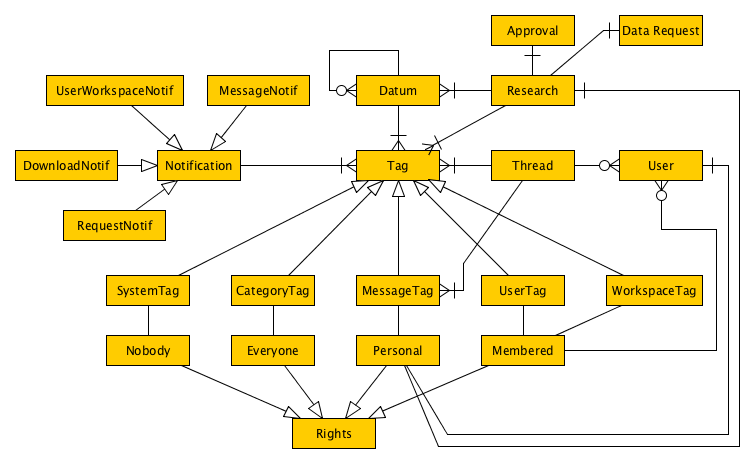
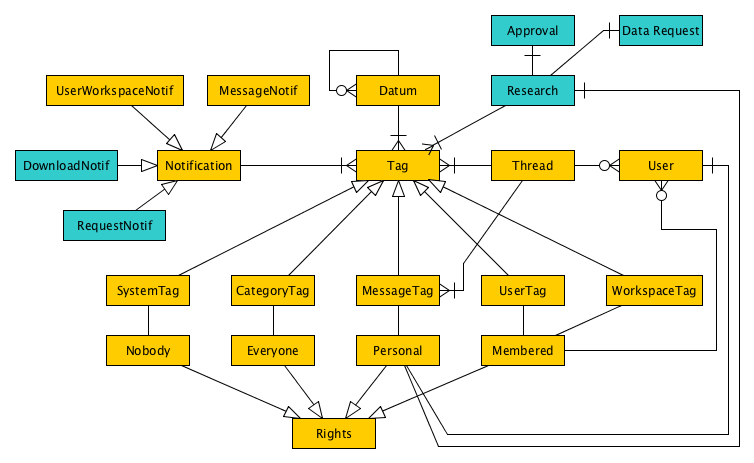
system design section 100% done, implementation section 100% done

diff --git a/partials/design-implementation/implementation-rosemary.tex b/partials/design-implementation/implementation-rosemary.tex
@@ -1,18 +1,70 @@
 \subsection{Rosemary}
-\paragraph{Testing the data model's flexibility}
-How was the Rosemary data model changed to fit to our functional needs.
-Show figure with differences.
 
-\begin{figure}[!htb]
+\paragraph{Testing the data model's flexibility}
+\begin{figure}[!b]
 	\centering
 	\includegraphics[width=1.0\linewidth]{images/datamodel-adapted}
 	\caption{
 		Rosemary data model as implemented.
 		Describes workspace, tagging, datum, notification, and research models.
 		The original data model can be found in figure \ref{fig:reuse-rosemary-dm}.
+		Differences between the implemented model and the original model are shown in blue.
 	}
 	\label{fig:implementation-rosemary-dm}
 \end{figure}
 
+As mentioned earlier in section \ref{reuse-rosemary} alterations had to be made to the original Rosemary data model.
+These can be divided into additions in the form of new objects and changes to already existing objects.
+
+The only existing object needing changes is the {\tt WorkspaceTag}.
+This tag is used to tell the system what subsets of data exist, where each subset is made up of one or more {\tt Datum}s (\ie{} each {\tt Datum} tagged with a certain workspace tag belongs in the subset).
+Each tag also has an owner and members, all the users in this set has access to the data in the workspace.
+
+The original Rosemary implementation does not differentiate between different \emph{types} of workspaces. 
+The \ivfsystem{} has a \emph{master} workspace containing \emph{all} the raw data from every clinic, it has clinic workspaces containing data specific to a clinic, and it has request workspaces containing data for a specific request.
+This is reflected by adding a workspace type field to the {\tt WorkspaceTag} object.
+
+Requests contain a limited set of data items (headers), the \emph{master} dataset contains all the available headers.
+To restrict the headers a researcher can view in his or her request workspace a visibility field was added to the {\tt WorkspaceTag}.
+This field contains a set of the accessible headers for a workspace, the system can then filters this data from the \emph{master} dataset before outputting the result to the user.
+
+Next to these two (minor) changes five new data objects were added to the data model.
+These are: {\tt Research}, {\tt Approval}, {\tt Data Request}, {\tt DownloadNotif}, {\tt RequestNotif}.
+The two notification objects are used to determine how information is displayed in the front-end they both inherit from the {\tt Notification} object.
+This means that the methods used to extract information are standardised and these two notification objects can directly be used in the system without further need for customisation.
+
+The other three objects are related to each other, each {\tt Research} contains an {\tt Approval} object and an {\tt Data Request} object.
+These related objects are used to capture data regarding the request progress.
+Where the {\tt Data Request} contains the requested headers and the {\tt Datum}s these relate to in the \emph{master} dataset.
+And the {\tt Approval} keeps record of the committee users that need to give permissions and what votes were already cast.
+Lastly, the {\tt Research} object is used to capture information used to base a voting decision on, \eg{} research question, study description.
+
 \paragraph{Back-end and front-end}
-Explain how the front and back-end were changed to meet each of the functions.
+In Rosemary the back-end provides an RESTful API which the front-end can communicate with, meaning that the back-end is completely disjointed from the front-end.
+Communication is done with JSON\footnote{http://json.org/}, which leaves options open for a complete rebuild of the front-end without having to touch the back-end.
+For the \ivfsystem{} the existing back and front-end were both reused.
+
+Starting with the back-end, some structural changes were made.
+Firstly, classes and methods that were used for submission and application handling were removed.
+Also the data import function was removed, however this might find a place in a later prototype of the \ivfsystem{} when incremental updating of data is used.
+Then, each of the objects from the data model are implemented in the back-end through a class.
+For each of the new objects a class was created with the necessary methods to store and retrieve data in them.
+
+The most notable changes to existing code were in the data handling and security classes.
+Rosemary already supports basic user handling where a user creates an account and access to the system is restricted based on this.
+However the system needed user roles for a fine grated control of access to the system.
+To execute this control the system requires these roles to be read and acted upon.
+This is reflected in the security class which now supplies this information.
+
+Data handling had to be changed in the sense that most of the time {\tt Datum}s would be retrieved with only a small selection of the available headers.
+All the read methods in the data class have been adapted to restrict access.
+This makes for easy access of data from the front-end, it just provides the back-end with a request for a workspace with a certain user.
+The back-end then filters data based on this and returns the restricted dataset.
+
+Design of front-end was done on an educated guess base.
+There was no time available for a user-centred design approach where prototypes are iterated until the best design solution is achieved.
+The existing layout was mostly left in place, pages related to surplus functions (submission and application handling) were removed.
+For each of the new functions pages were created where necessary.
+
+To the architecture of the front-end no changes were made.
+The implementation of back-end communication and security was sufficient for a successful implementation of a prototype.

diff --git a/partials/design-implementation/implementation-processes.tex b/partials/design-implementation/implementation-processes.tex
@@ -1,12 +1,51 @@
 \section{Implementation}
 
 \subsection{Processes}
-\paragraph{Division of management tasks}
-Describe user, data, request, and publication-management, which were implemented and which were left out for now.
-What functions for each of the tasks was implemented.
 
-\paragraph{User roles}
-What user roles were implemented and which (parts) of the management tasks are they allowed to perform.
+\begin{figure}[!b]
+	\centering
+	\includegraphics[width=1.0\linewidth]{images/functions-implemented}
+	\caption{
+		Mapping of functions after implementation considerations according to function groups, actors, and research workflow.
+		Greyed-out functions are implemented through placeholders.
+	}
+	\label{fig:functions-implemented}
+\end{figure}
+
+\paragraph{Division of management tasks}
+Due to time restrictions in this study not all functions that were discovered in section \ref{brainstorm} could be implemented.
+A selection was made based on the programmers opinion what would be most profitable for a prototype system.
+Which selection was made can be seen in figure \ref{fig:functions-implemented}.
+Decisions were made based on the fact that the demo has to appeal to a wide variety of users, most importantly research and clinic management.
+
+To start with the most basic system data management functions are implemented.
+These include search and filtering for the researcher user and data manager user, and the download function.
+Data audit is implemented through placeholders to show the value of such an function without the actual data processing back-end.
+Metadata handling is not implemented as data is considered \emph{fixed} after system initialisation.
+
+After this, request management is implemented.
+By removing direct access to data and adding more control for committee users (coming directly from each clinic), this is deemed to increase system trust by clinic management.
+Request creation, editing, and submission by researcher users is supported.
+Approval by committee users and automated subset creation by the system is also implemented.
+Not implemented are: annotation and feedback on requests, stale request detection, and keeping provenance.
+All of these functions are mostly supporting users in performing tasks but are not critical to the execution of the system.
+
+User management is implemented with the addition of roles to user accounts and a dashboard for the data manager user.
+In this dashboard the manager can find all the users of the system and assign the appropriate roles to each of them.
+Lastly, publication management as closing stone of the research cycle is left out.
+The additional time that had to be spend including these functions does not outweigh the added value for prospective demo users.
 
 \paragraph{Security}
-Talk about security story and provenance.
+Even though security considerations are a big part of the requirement analysis (see section \ref{security}), the does not show itself that clearly in the system implementation.
+Most of the security measures were taken during the data gathering steps.
+Because the decision was made to have a fixed dataset for the system a lot of the discussed security measures do not need to apply anymore as described in section \ref{security-summarisation-analysis}.
+
+Provenance, as part of security, was not implemented either.
+It would be very useful to show the strength of the \ivfsystem{}, data protection through provenance can be made highly visible and easy to understand for humans.
+However, the goals to quickly support the provenance functions and develop an interface on top of the data could not be reached within the time frame.
+
+Lastly, in order to obtain a working system a few more things are needed.
+More functionality needs to be implemented, most notably better user interfaces for data filtering and selection (see section \ref{evaluation}).
+Furthermore, more design and programming iterations need to be done before the request and publication management have been fully developed.
+Then a big security iteration should be done to prepare the system for testing and certification.
+Right now security has been patched up in the front-end by hiding information for certain users, this should change to the back-end not \emph{providing} that information to begin with.

diff --git a/main.tex b/main.tex
@@ -34,19 +34,10 @@
 \newcommand{\ivfsystem}{IVF-PRN system}
 \newcommand{\escience}{e-Science}
 
-% Block comment command
-%\long\def\/*#1*/{}
-
 % Commenting commands
 \newcommand{\silnote}[1]{\textcolor{red}{\textbf{*Silvia: }\textit{#1}}}
 \newcommand{\allard}[1]{\textcolor{red}{\textbf{*Allard: }\textit{#1}}}
 \newcommand{\note}[1]{\textcolor{cyan}{\textit{#1}}}
-
-% Flag for document style switch, set to true or false
-%\newif\ifstructure
-
-%\structuretrue
-%\structurefalse
 
 \title{Developing a Data Management System for Obstetric Research Into Long Term Effect of In Vitro Fertilisation Techniques}
 

diff --git a/partials/design-implementation/reuse-rosemary.tex b/partials/design-implementation/reuse-rosemary.tex
@@ -1,4 +1,6 @@
 \subsection{Rosemary}
+\label{reuse-rosemary}
+
 \paragraph{Goodness of fit}
 To make clear how well Rosemary can be fitted to the \project{} first the functions of the current implementation will be described.
 As said in the previous section the system encompasses domain specific data and processing management.
